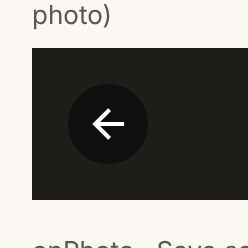
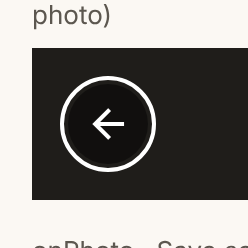
Add Button component; white focus ring on photo buttons
Button: primary and secondary variants, md and lg sizes, optional basket
icon, fullWidth, pressed fills, keyboard focus ring and optional
accessibilityLabel. New token color.focusOnPhoto for IconButton onPhoto.

Claude-Session: https://claude.ai/code/session_01Nt62VDTQhttFTqkyUPVqAi

Changed region(s): [[0.2258, 0.2823, 0.6492, 0.7056]]

diff --git a/src/components/Button.tsx b/src/components/Button.tsx
@@ -1,0 +1,105 @@
+import { Pressable, StyleSheet, Text, View } from 'react-native';
+import { MaterialCommunityIcons } from '@expo/vector-icons';
+import { color, radius, size, space, type } from '../theme/tokens';
+import { focusRingStyle } from '../theme/focusRing';
+import { useFocusRing } from '../hooks/useFocusRing';
+
+export type ButtonVariant = 'primary' | 'secondary';
+export type ButtonSize = 'md' | 'lg';
+export type ButtonIcon = 'basket';
+
+export type ButtonProps = {
+  /** Verb first: "Let's cook", "Add to shopping list". */
+  label: string;
+  /** `primary` is for the single main action on a screen (max one). */
+  variant?: ButtonVariant;
+  /** `lg` only for the primary action in StickyCTA. */
+  size?: ButtonSize;
+  /** Optional leading icon. */
+  icon?: ButtonIcon;
+  /** Fills the available width. */
+  fullWidth?: boolean;
+  onPress: () => void;
+  /** What screen readers say, if it should say more than the label. Defaults to the label. */
+  accessibilityLabel?: string;
+};
+
+// One icon set only (CLAUDE.md): MaterialCommunityIcons, outline style.
+const ICONS = { basket: 'basket-outline' } as const;
+
+/** A text button. `primary` for the one main action, `secondary` for everything else. */
+export function Button({
+  label,
+  variant = 'secondary',
+  size: buttonSize = 'md',
+  icon,
+  fullWidth = true,
+  onPress,
+  accessibilityLabel,
+}: ButtonProps) {
+  const { focused, onFocus, onBlur } = useFocusRing();
+  const isPrimary = variant === 'primary';
+  const contentColor = isPrimary ? color.action.onPrimary : color.text.primary;
+
+  return (
+    <Pressable
+      onPress={onPress}
+      onFocus={onFocus}
+      onBlur={onBlur}
+      accessibilityRole="button"
+      accessibilityLabel={accessibilityLabel ?? label}
+      style={({ pressed }) => [
+        styles.base,
+        sizeStyles[buttonSize],
+        isPrimary ? styles.primary : styles.secondary,
+        pressed && (isPrimary ? styles.primaryPressed : styles.secondaryPressed),
+        { alignSelf: fullWidth ? 'stretch' : 'flex-start' },
+      ]}
+    >
+      {icon && (
+        // Decorative: the label already says what the button does.
+        <View accessibilityElementsHidden importantForAccessibility="no-hide-descendants">
+          <MaterialCommunityIcons name={ICONS[icon]} size={size.icon.button} color={contentColor} />
+        </View>
+      )}
+      <Text style={[styles.label, { color: contentColor }]}>{label}</Text>
+      {focused && <View pointerEvents="none" style={focusRingStyle(radius.md)} />}
+    </Pressable>
+  );
+}
+
+const styles = StyleSheet.create({
+  base: {
+    flexDirection: 'row',
+    alignItems: 'center',
+    justifyContent: 'center',
+    gap: space[2],
+    paddingHorizontal: space[4],
+    // Breathing room if the label wraps at very large text sizes.
+    paddingVertical: space[2],
+    borderRadius: radius.md,
+    // The focus ring replaces the browser's default outline on web.
+    outlineWidth: 0,
+  },
+  label: {
+    ...type.label,
+    textAlign: 'center',
+    flexShrink: 1,
+  },
+  primary: { backgroundColor: color.action.primary },
+  primaryPressed: { backgroundColor: color.action.primaryPressed },
+  secondary: {
+    backgroundColor: color.bg.surface,
+    borderWidth: 1,
+    borderColor: color.border.control,
+  },
+  secondaryPressed: { backgroundColor: color.bg.subtle },
+});
+
+// Heights are minimums so large text never clips (docs/decisions.md). Both exceed size.touch.min.
+const sizeStyles = StyleSheet.create({
+  md: { minHeight: size.button.md },
+  lg: { minHeight: size.cta.height },
+});
+
+export default Button;

diff --git a/app/gallery.tsx b/app/gallery.tsx
@@ -1,6 +1,7 @@
 import { useState, type ReactNode } from 'react';
 import { ScrollView, Text, View } from 'react-native';
 import { useSafeAreaInsets } from 'react-native-safe-area-context';
+import { Button } from '../src/components/Button';
 import { IconButton } from '../src/components/IconButton';
 import { Tag } from '../src/components/Tag';
 import { color, space, type } from '../src/theme/tokens';
@@ -92,6 +93,30 @@ export default function Gallery() {
         </Example>
         <Example name="outline · Save selected">
           <IconButton icon="save" accessibilityLabel="Save recipe" selected onPress={noop} />
+        </Example>
+      </Section>
+
+      <Section title="Button">
+        <Example name="primary · lg (the one main action)">
+          <Button
+            variant="primary"
+            size="lg"
+            label="Let's cook"
+            accessibilityLabel="Let's cook, opens step-by-step cook mode"
+            onPress={noop}
+          />
+        </Example>
+        <Example name="primary · md">
+          <Button variant="primary" label="Let's cook" onPress={noop} />
+        </Example>
+        <Example name="secondary · md · basket icon">
+          <Button label="Add to shopping list" icon="basket" onPress={noop} />
+        </Example>
+        <Example name="secondary · lg">
+          <Button size="lg" label="Add to shopping list" onPress={noop} />
+        </Example>
+        <Example name="secondary · md · fullWidth false">
+          <Button label="Add to shopping list" icon="basket" fullWidth={false} onPress={noop} />
         </Example>
       </Section>
     </ScrollView>

diff --git a/src/theme/focusRing.ts b/src/theme/focusRing.ts
@@ -5,8 +5,9 @@ import { color, focus } from './tokens';
  * Style for the 2 pt focus ring drawn `focus.offset` outside a control.
  * Render it as an absolutely positioned, non-interactive View inside the control.
  * `controlRadius` is the corner radius of the control it surrounds.
+ * `ringColor` defaults to `color.focus`; on the photo use `color.focusOnPhoto`.
  */
-export function focusRingStyle(controlRadius: number): ViewStyle {
+export function focusRingStyle(controlRadius: number, ringColor: string = color.focus): ViewStyle {
   const outset = focus.offset + focus.width;
   return {
     position: 'absolute',
@@ -15,7 +16,7 @@ export function focusRingStyle(controlRadius: number): ViewStyle {
     left: -outset,
     right: -outset,
     borderWidth: focus.width,
-    borderColor: color.focus,
+    borderColor: ringColor,
     borderRadius: controlRadius + outset,
   };
 }

diff --git a/src/components/IconButton.tsx b/src/components/IconButton.tsx
@@ -71,7 +71,12 @@ export function IconButton({
             size={size.icon.default}
             color={onPhoto ? color.onOverlay : color.text.primary}
           />
-          {focused && <View pointerEvents="none" style={focusRingStyle(containerRadius)} />}
+          {focused && (
+            <View
+              pointerEvents="none"
+              style={focusRingStyle(containerRadius, onPhoto ? color.focusOnPhoto : color.focus)}
+            />
+          )}
         </View>
       )}
     </Pressable>

diff --git a/src/theme/tokens.ts b/src/theme/tokens.ts
@@ -70,6 +70,7 @@ export const color = {
     fg: palette.amber[800],
   },
   focus: palette.stone[900],
+  focusOnPhoto: palette.white, // Added: focus ring on the photo, where stone.900 disappears
   overlay: blackAt(0.45),
   overlayPressed: blackAt(0.6),
   onOverlay: palette.white,

diff --git a/docs/decisions.md b/docs/decisions.md
@@ -21,3 +21,4 @@ Decisions that aren't in the specs, with the reason. Newest at the bottom.
 | 2026-10-16 | Expo SDK 58, routes in `app/` (CLAUDE.md), not `src/app/` (Expo's newer default). | CLAUDE.md names `app/index.tsx` and `app/gallery.tsx`. |
 | 2026-10-16 | Shared focus-ring helpers: `src/theme/focusRing.ts` (ring style from tokens) and `src/hooks/useFocusRing.ts` (on web the ring shows for keyboard focus only, not after a click). | Four components need the same 2 pt ring. These are helpers, not components; nothing visible exists outside the 7 components. |
 | 2026-10-16 | `app/gallery.tsx` has no `.md` spec. | It's a developer tool for viewing the components (like Storybook), not part of the design system or the recipe screen. |
+| 2026-10-16 | New token `color.focusOnPhoto` = `white`, used for the focus ring of `onPhoto` IconButtons. | `color.focus` (near-black) is invisible on dark photos. |
